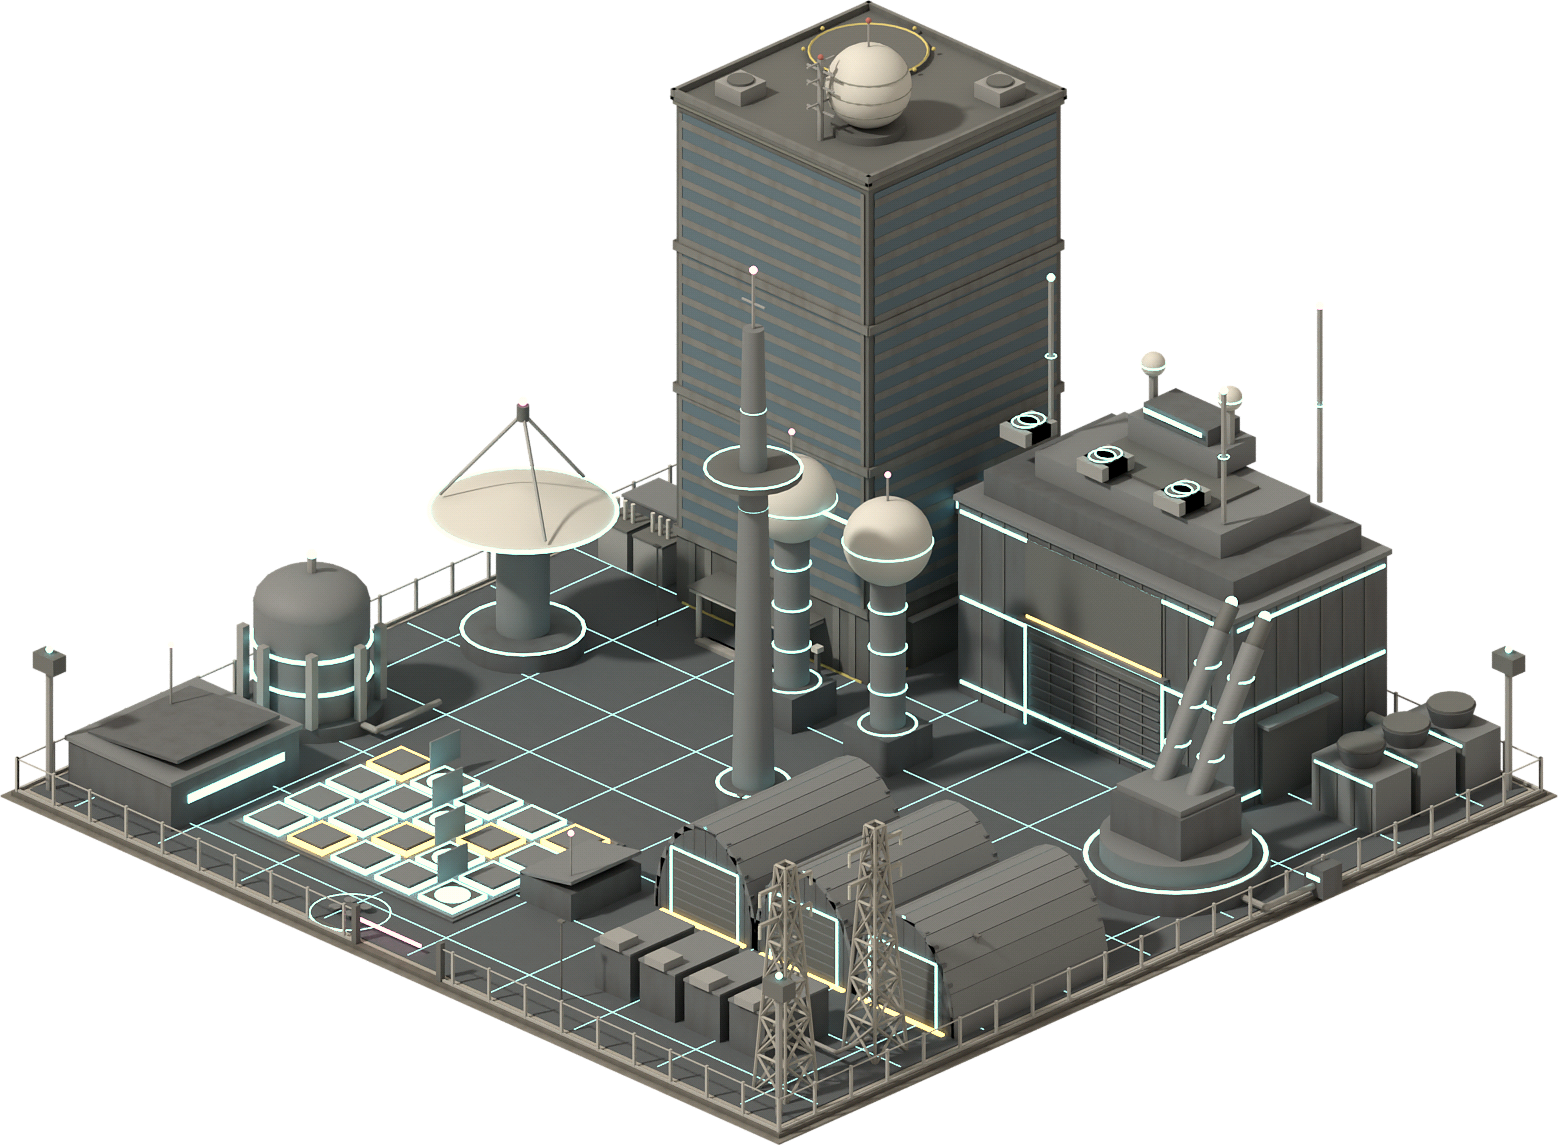
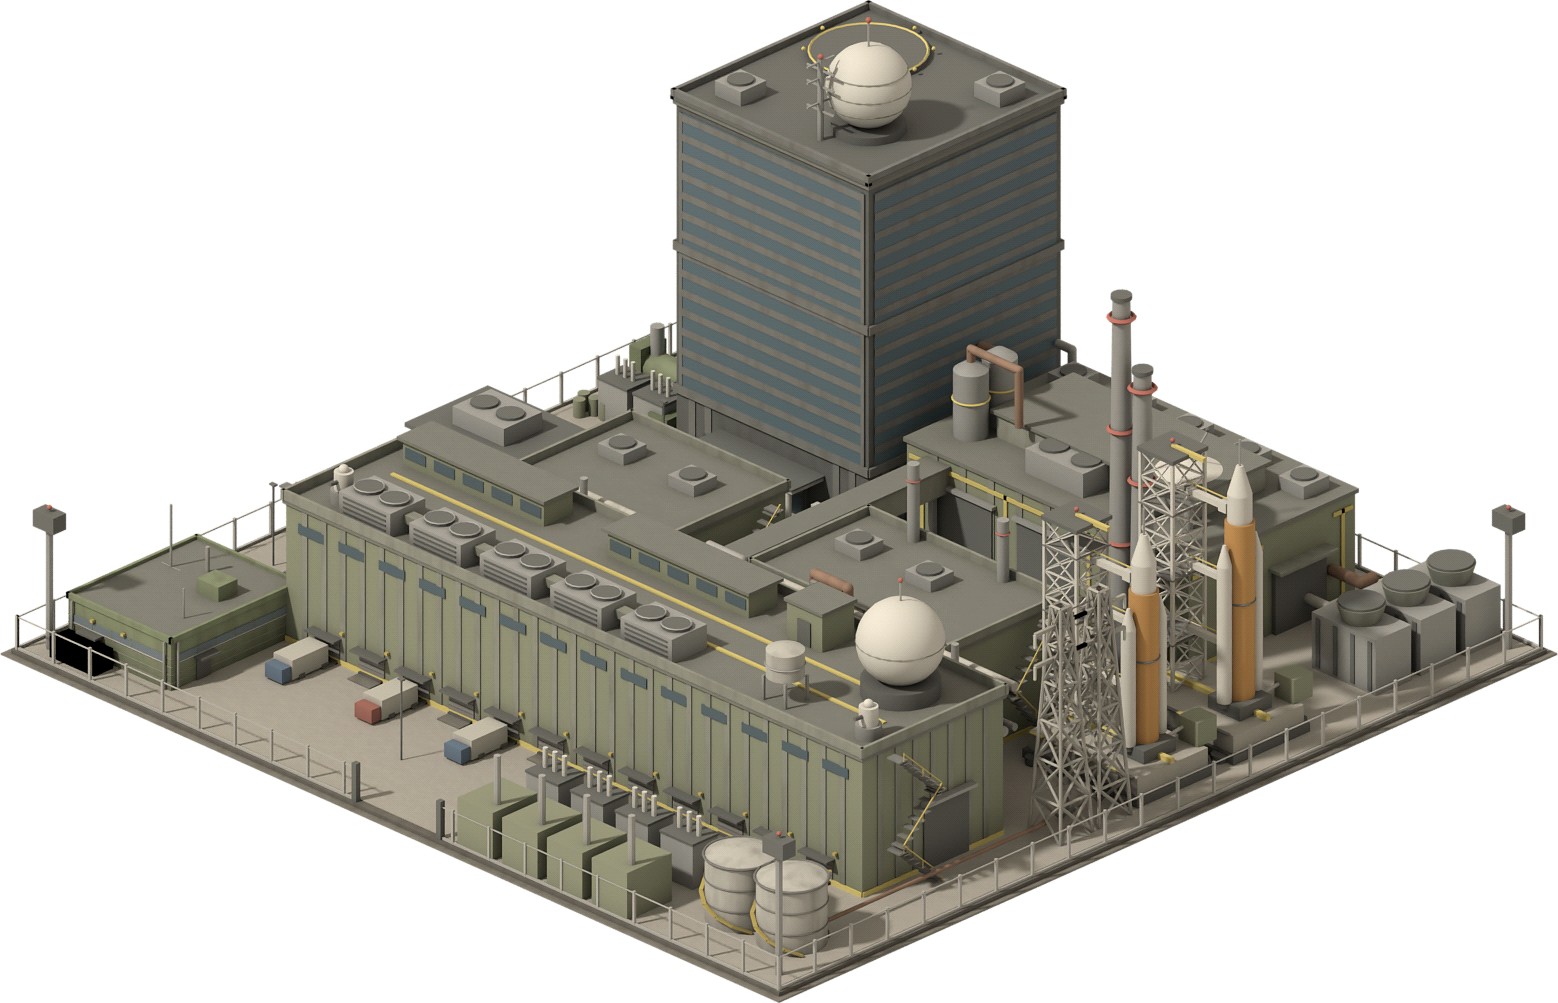
AI防衛工場を作り直し：前の広場に横長の組立棟B・広場の棟2つ・ミサイル発射台2基・屋上設備、タワーはガラス張りの段を2段に
Claude-Session: https://claude.ai/code/session_018rzwRr8JkDqqPcQLfX2TTK

diff --git a/data/sprites_bl.js b/data/sprites_bl.js
@@ -3122,36 +3122,36 @@ window.GAME_DATA.spritesBL = {
    {
     "file": "../assets/bl/aiDefenseFactory_r0.png",
     "w": 779.0,
-    "h": 572.5,
+    "h": 501.5,
     "ax": 389.5,
-    "ay": 395.6,
+    "ay": 324.6,
     "fw": 12,
     "fd": 12
    },
    {
     "file": "../assets/bl/aiDefenseFactory_r1.png",
     "w": 779.0,
-    "h": 467.5,
+    "h": 413.5,
     "ax": 389.5,
-    "ay": 290.1,
+    "ay": 236.1,
     "fw": 12,
     "fd": 12
    },
    {
     "file": "../assets/bl/aiDefenseFactory_r2.png",
     "w": 779.0,
-    "h": 463.0,
+    "h": 413.0,
     "ax": 389.5,
-    "ay": 286.1,
+    "ay": 236.1,
     "fw": 12,
     "fd": 12
    },
    {
     "file": "../assets/bl/aiDefenseFactory_r3.png",
     "w": 779.0,
-    "h": 523.5,
+    "h": 444.5,
     "ax": 389.5,
-    "ay": 346.6,
+    "ay": 267.6,
     "fw": 12,
     "fd": 12
    }

diff --git a/sw.js b/sw.js
@@ -1,5 +1,5 @@
 // 工場地帯シミュ：オフライン用のキャッシュ。http(s) で配信したときだけ使われる（file:// では登録されない）。内容を変えたら CACHE を上げる
-const CACHE = 'factorysim-v7';
+const CACHE = 'factorysim-v8';
 self.addEventListener('install', e => { self.skipWaiting(); });
 self.addEventListener('activate', e => { e.waitUntil(caches.keys().then(ks => Promise.all(ks.filter(k => k !== CACHE).map(k => caches.delete(k)))).then(() => self.clients.claim())); });
 self.addEventListener('fetch', e => {
